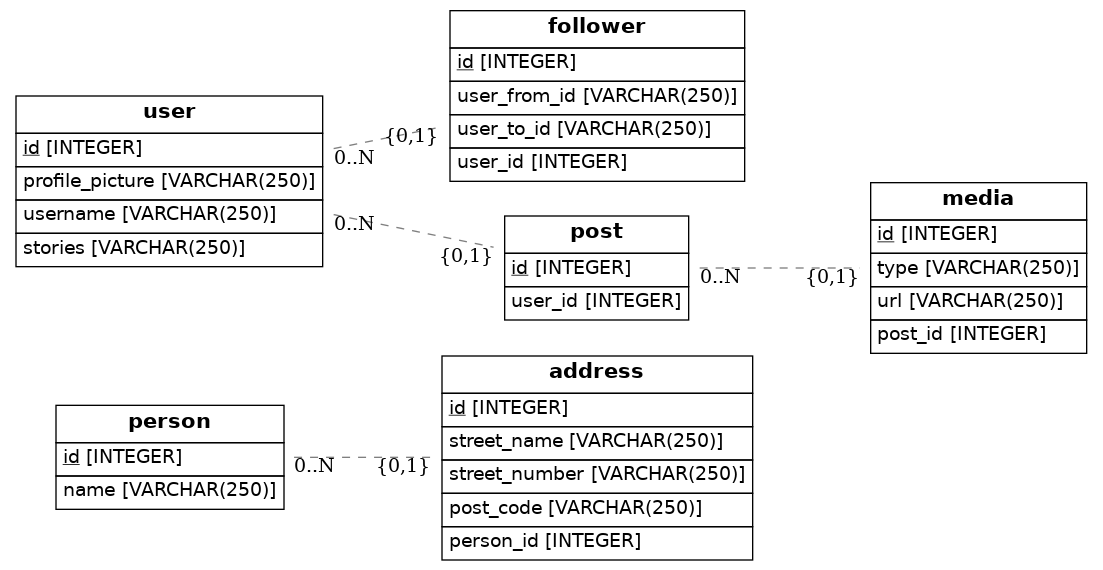
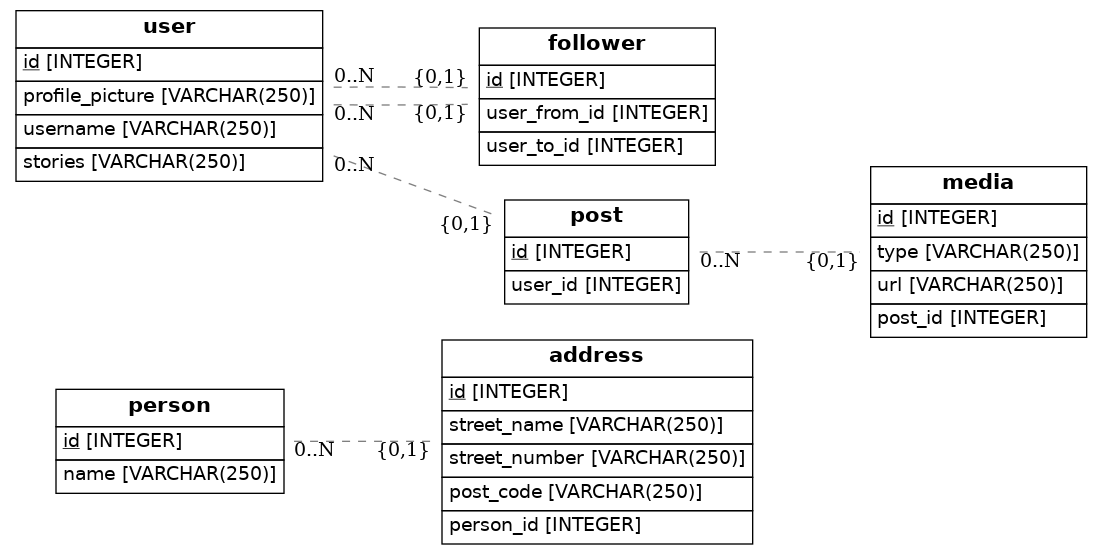
terminar cambios

diff --git a/src/models.py b/src/models.py
@@ -34,17 +34,15 @@ class User(Base):
     profile_picture = Column(String(250))
     username = Column(String(250))
     stories = Column(String(250), nullable=False)
-  
+    
 class Follower(Base):
     __tablename__ = 'follower'
     # Here we define columns for the table address.
     # Notice that each column is also a normal Python instance attribute.
     id = Column(Integer, primary_key=True)
-    user_from_id = Column(String(250))
-    user_to_id= Column(String(250), nullable=False)
-    user_id = Column(Integer, ForeignKey('user.id'))
-    user = relationship(User)
-
+    user_from_id = Column(Integer,ForeignKey('user.id'))
+    user_to_id= Column(Integer,ForeignKey('user.id'), nullable=False)
+   
 class Post(Base):
     __tablename__ = 'post'
     # Here we define columns for the table address.
